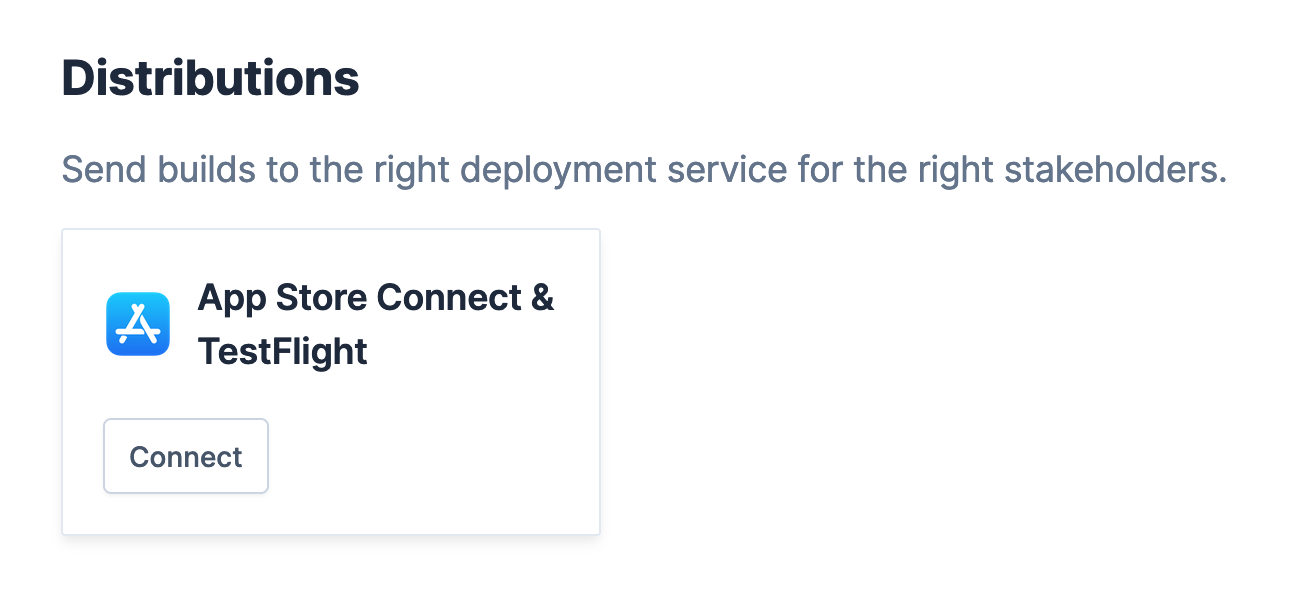
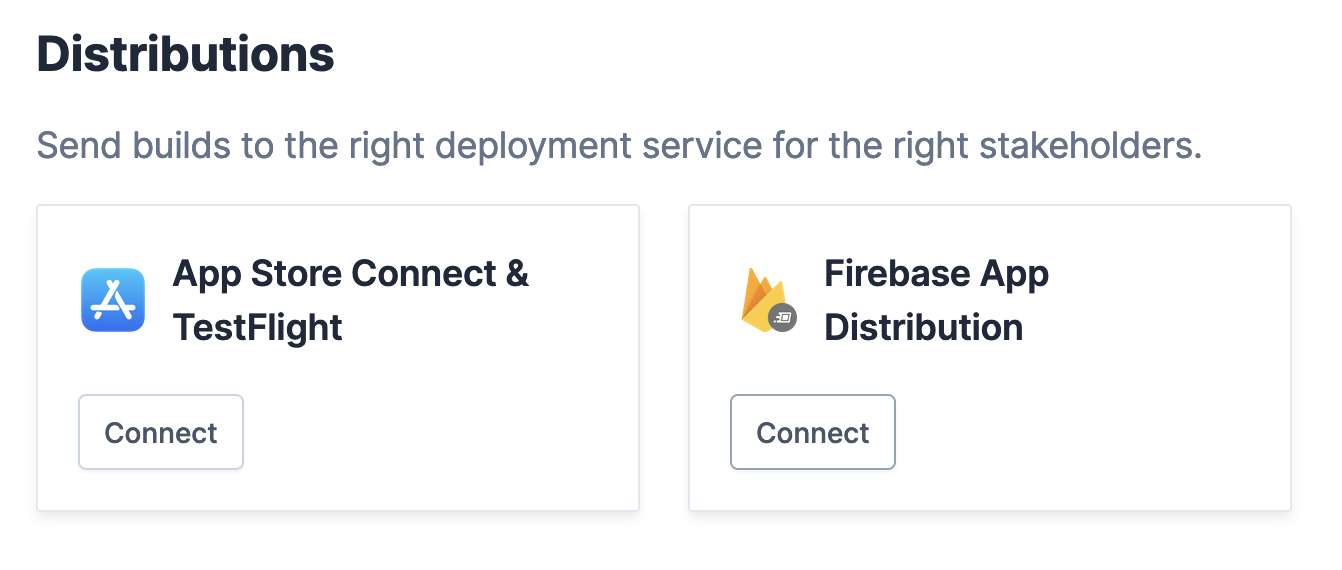
Add Firebase App Distribution to build distributions

diff --git a/docs/integrations/distribution/firebase.md b/docs/integrations/distribution/firebase.md
@@ -1,0 +1,38 @@
+---
+sidebar_position: 3
+---
+
+# Firebase App Distribution
+
+Navigate to the integrations page for your app and select __Firebase App Distribution__ under the __Distributions__ section on the page.
+
+![](/img/build-integration.png)
+
+Tramline uses the official [Firebase App Distribution API](https://firebase.google.com/docs/reference/app-distribution/rest) to connect to your Firebase account. For the integration to work, you'll need to create and upload a JSON key file to Tramline.
+
+:::caution
+These steps can only be done by the owner of the Play Console account. If you're not the owner, you will not be able to proceed.
+:::
+
+The full setup involves the following steps:
+
+1. Open the [Google Cloud Console](https://console.cloud.google.com/projectselector2/iam-admin/serviceaccounts) and select your project.
+2. Click Create Service Account and enter service account details.
+3. Click Create and Continue.
+4. Add the Firebase App Distribution Admin role and click Done.
+5. Create a private JSON key. Be sure to keep this file somewhere safe.
+6. Upload service account JSON key to Tramline
+
+Once you've properly setup a service account with Firebase App Distribution Admin role, all that is left to be done is upload the service account JSON key file into Tramline.
+
+<img height="500" src="/img/firebase-connect.png" width="500"/>
+
+Along with the service account JSON key, you will also need to add Project Number and App ID for your app in Firebase. You can find them in your Firebase Console.
+
+Project Number:
+<img height="500" src="/img/firebase-project-number.png" width="500"/>
+
+App ID:
+<img height="500" src="/img/firebase-app-id.png" width="500"/>
+
+When you click *Create* after uploading the JSON key file, Tramline will verify that the integration is working correctly by connecting to your project and app on Firebase.

diff --git a/docs/integrations/distribution/distribution.md b/docs/integrations/distribution/distribution.md
@@ -13,6 +13,7 @@ For Android apps, Tramline keeps a copy your release build in its system. It upl
 ### Supported integrations
 
 - [Google Play Console](play_store)
+- [Firebase App Distribution](firebase)
 - [Slack](slack)
 
 ## iOS
@@ -23,3 +24,4 @@ For iOS apps, Tramline currently expects the build to be present in App Store Co
 
 - [TestFlight](testflight)
 - [App Store](app_store)
+- [Firebase App Distribution](firebase)
